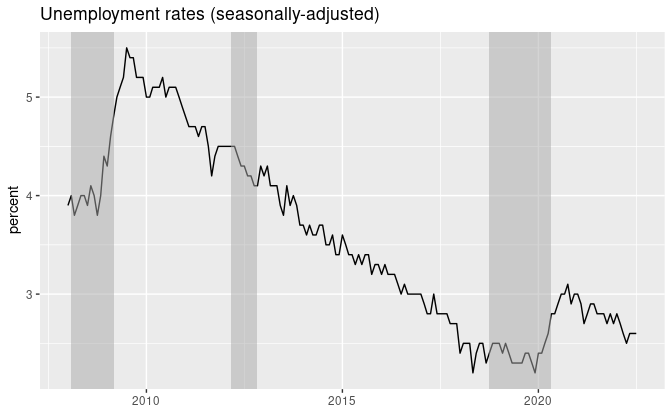
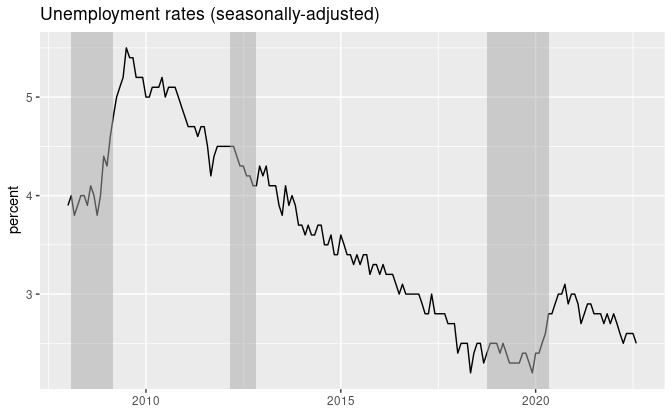
update August 2022 unemployment

diff --git a/README.md b/README.md
@@ -14,7 +14,7 @@ Mitsuo Shiota
     id="toc-suicide-cases-are-bouncing-back-but-not-as-fast-as-the-program-suggests">Suicide
     cases are bouncing back, but not as fast as the program suggests</a>
 
-Updated: 2022-09-22
+Updated: 2022-10-01
 
 ## Motivation
 
